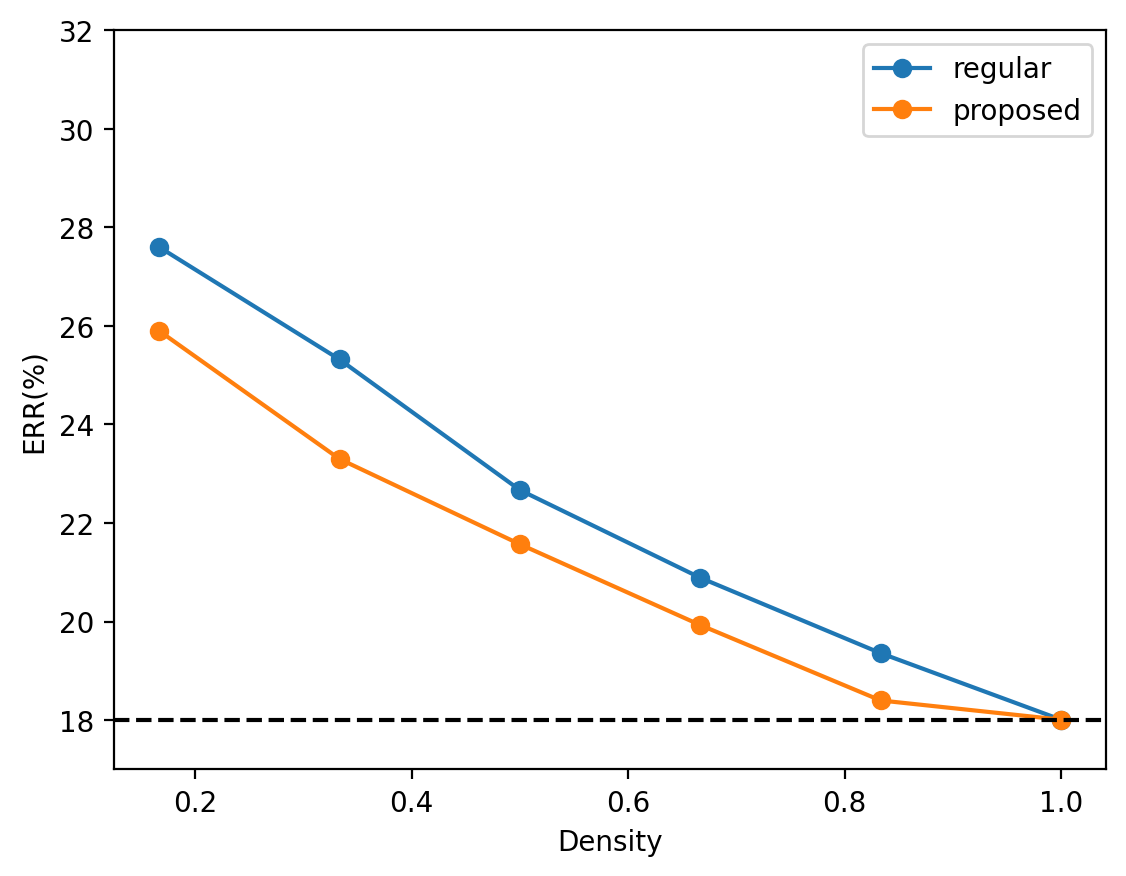
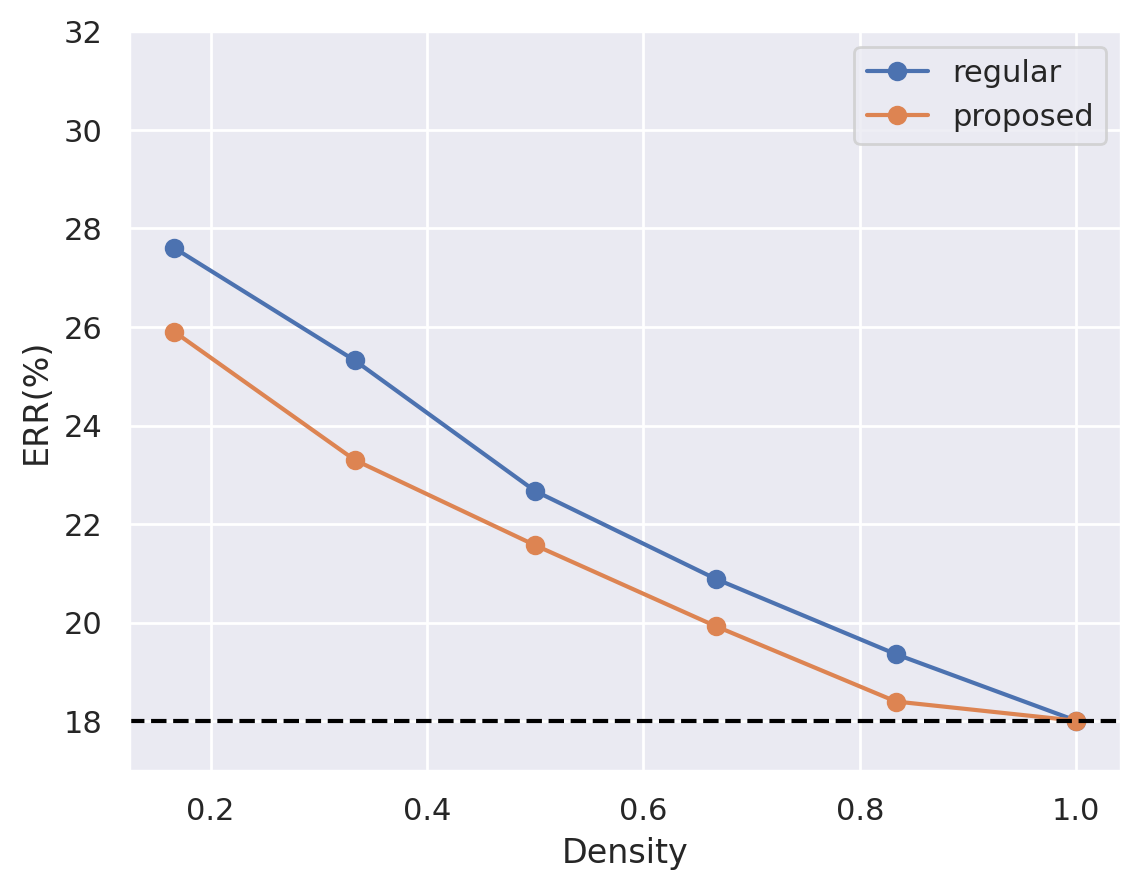
update figure

diff --git a/reproduce_figure/draw.py b/reproduce_figure/draw.py
@@ -91,10 +91,10 @@ def layer_compare():
     with open('data/layer_score.json', 'r') as fp:
         results = json.load(fp)
     color = {
-        'phone-type': RED,
-        'gender': BLUE,
-        'pitch': GREEN,
-        'duration': YELLOW
+        'phone-type': 'C0',
+        'gender': 'C1',
+        'pitch': 'C2',
+        'duration': 'C3'
     }
     labels = {
         'phone-type': 'phoneme',
@@ -102,6 +102,7 @@ def layer_compare():
         'pitch': 'pitch',
         'duration': 'duration' 
     }
+    plt.figure(figsize=(6,4))
     for k, v in results.items():
         if k == 'duration':
             continue
@@ -119,9 +120,9 @@ def model_compare():
         model_score = json.load(fp)
     color = {
         'melhubert_base': RED,
-        'hubert_base': BLUE,
-        'wav2vec2_base': GREEN,
-        'wavlm_base': YELLOW,
+        'hubert_base': 'C0',
+        'wav2vec2_base': 'C1',
+        'wavlm_base': 'C2',
         'pr': RED2,
         'sid': RED3,
     }
@@ -136,14 +137,14 @@ def model_compare():
     x = np.arange(3)  # the label locations
     width = 0.06  # the width of the bars
     multiplier = 0
-    fig, ax = plt.subplots(layout='constrained', figsize=(5,4))
+    fig, ax = plt.subplots(layout='constrained', figsize=(6,3))
     for m in models_list:
         offset = width * multiplier
         ax.bar(x*0.5 + offset, model_score[m], width, label=label[m], color=color[m])
         multiplier += 1
     xticks = ['phoneme', 'gender', 'pitch']
-    ax.set_ylabel('Silhouette score')
-    ax.set_xticks(x*0.5 + width*1.5, xticks)
+    ax.set_ylabel('Silhouette score', fontsize=15)
+    ax.set_xticks(x*0.5 + width*2.5, xticks, fontsize=13)
     ax.legend(loc='upper left')
     plt.savefig('fig/models-compare.png', dpi=200, bbox_inches='tight')
 
@@ -151,10 +152,10 @@ def layer_n_ps_compare():
     with open('data/layer_n_ps_keys.json', 'r') as fp:
         layer_n_ps_keys = json.load(fp)
     color = {
-        'phone-type': RED,
-        'gender': BLUE,
-        'pitch': GREEN,
-        'duration': YELLOW
+        'phone-type': 'C0',
+        'gender': 'C1',
+        'pitch': 'C2',
+        'duration': 'C3'
     }
     label = {
         'phone-type': 'phoneme',
@@ -162,6 +163,7 @@ def layer_n_ps_compare():
         'pitch': 'pitch',
         'duration': 'duration'
     }
+    plt.figure(figsize=(6,4))
     for k, v in layer_n_ps_keys.items():
         if k == 'duration':
             continue
@@ -176,6 +178,9 @@ def venn_ps_keys():
     with open('data/venn_set_sizes_layer_1.json', 'r') as fp:
         set_sizes = json.load(fp)
     venn = venn3(subsets=set_sizes, set_labels=p_name)
+    venn.get_patch_by_id('100').set_color('C0')  
+    venn.get_patch_by_id('010').set_color('C1')
+    venn.get_patch_by_id('001').set_color('C2') 
     plt.savefig('fig/venn-ps-keys-layer-1.png', bbox_inches='tight', dpi=200)
 
 # def row_pruning_cmp_n_ps_keys():
@@ -297,7 +302,7 @@ def row_pruning_regular_n_ps_keys():
     plt.savefig('fig/row-pruning-regular-n-ps-keys.png', bbox_inches='tight', dpi=200)
 
 def row_pruning_pr():
-    methods = ['regular-all', 'proposed-all']
+    methods = ['regular-all', 'protect-all']
     per = {
         'regular-128': [12.28, 8.40, 7.42, 7.23, 7.34, 8.17],
         'regular-all': [12.03, 8.17],
@@ -323,21 +328,21 @@ def row_pruning_pr():
         'protect-all': BLUE,
     }
     labels = {
-        'regular': 'regular',
+        'regular-all': 'regular',
         'protect-all': 'protect'
     }
 
     for m in methods:
         plt.plot(density[m], per[m], label=labels[m], color=colors[m], marker='o')
     plt.legend()
-    plt.axhline(per['regular'][-1], linestyle='--', color='black')
+    plt.axhline(per['regular-all'][-1], linestyle='--', color='black')
     plt.ylim(7, 22)
     plt.xlabel('Density')
     plt.ylabel('PER(%)')
     plt.savefig('fig/row-pruning-pr.png', bbox_inches='tight', dpi=200)
 
 def row_pruning_sid():
-    methods = ['regular-all', 'proposed-all']
+    methods = ['regular-all', 'protect-all']
     acc = {
         'regular-128': [51.04, 54.93, 59.77, 60.35, 62.63, 63.96],
         'regular-all': [50.84, 63.96],
@@ -362,13 +367,13 @@ def row_pruning_sid():
         'protect-all': BLUE,
     }
     labels = {
-        'regular': 'regular',
+        'regular-all': 'regular',
         'protect-all': 'protect'
     }
     for m in methods:
         plt.plot(density[m], [100-i for i in acc[m]], label=labels[m], color=colors[m], marker='o')
     plt.legend()
-    plt.axhline(100-acc['regular'][-1], linestyle='--', color='black')
+    plt.axhline(100-acc['regular-all'][-1], linestyle='--', color='black')
     plt.ylim(35, 50)
     plt.xlabel('Density')
     plt.ylabel('ERR(%)')
@@ -376,36 +381,50 @@ def row_pruning_sid():
 
 def row_pruning_bar():
     PR = {
-        'topline': 2.42,
-        'proposed': 10.77,
-        'baseline': 11.52
+        'unpruned': 8.17,
+        'protect ': 10.66,
+        'baseline': 12.03,
     }
     SID = {
-        'topline': 81.99,
-        'proposed': 73.74,
-        'baseline': 69.54
+        'unpruned': 63.96,
+        'protect': 58.89,
+        'baseline': 50.84,
     }
+
     # Convert SID accuracy to error rate
     SID_error = {k: 100 - v for k, v in SID.items()}
     methods = list(PR.keys())
     # Plotting
-    fig, ax1 = plt.subplots(figsize=(8, 6))
+    fig, ax1 = plt.subplots(figsize=(10, 6))
     # Bar width
     bar_width = 0.18
     # Index for the bar locations for PR and SID
     index_PR = np.arange(len(methods)) * 0.3  
-    index_SID = np.arange(len(methods)) * 0.3 + max(index_PR) + 0.5
+    index_SID = np.arange(len(methods)) * 0.3 + max(index_PR) + 0.4
     # Bar plots for PR
     bars_PR = ax1.bar(index_PR, PR.values(), bar_width, label='PR', color='C0')
     ax1.set_ylabel('PER (%)')
     ax1.set_xticks(np.concatenate([index_PR, index_SID]))
-    ax1.set_xticklabels(['PR ' + m for m in methods] + ['SID ' + m for m in methods])  # Explicit labels for clarity
+    ax1.set_xticklabels(methods + methods, fontsize=14)  # Explicit labels for clarity
+    ax1.legend(fontsize=15, loc='upper left', framealpha=0.8)
     # Create a second y-axis for SID error rates
     ax2 = ax1.twinx()
-    bars_SID = ax2.bar(index_SID, SID_error.values(), bar_width, label='SID Error Rate', color='C1')
+    bars_SID = ax2.bar(index_SID, SID_error.values(), bar_width, label='SID', color='C1')
     ax2.set_ylabel('SID ERR (%)')
-    # Legend
-    plt.savefig('fig/task-specific-bar.png', bbox_inches='tight', dpi=200)
+    ax2.grid(visible=False)
+    ax2.legend(fontsize=15, loc='upper left', bbox_to_anchor=(0,0.9), framealpha=0.8)
+    # Function to attach a text label above each bar displaying its height
+    def autolabel(rects, ax):
+        for rect in rects:
+            height = round(rect.get_height(), 1)
+            ax.annotate('{}'.format(height),
+                        xy=(rect.get_x() + rect.get_width() / 2, height),
+                        xytext=(0, 3),  # 3 points vertical offset
+                        textcoords="offset points",
+                        ha='center', va='bottom')
+    autolabel(bars_PR, ax1)
+    autolabel(bars_SID, ax2)
+    plt.savefig('fig/pruning-bar.png', bbox_inches='tight', dpi=200)
 
 def ssl_pruning():
     row_pruning_pr()
@@ -415,14 +434,11 @@ def ssl_pruning():
 def match_prob():
     v_data = np.load('data/match_prob.npy')
     n_dim = v_data.shape[-1]
-    n_phone = 3
     random_baseline = round(3072*0.01)/3072
-    phone_name = ['AH', 'F', 'UH']
-    fig, axs = plt.subplots(1, n_phone, figsize=(10,4))
-    for i in range(n_phone):
-        axs[i].bar(range(n_dim), v_data[i])
-        axs[i].title.set_text(phone_name[i])
-        axs[i].axhline(y=random_baseline, color='r', linestyle='-', linewidth=1)
+    plt.figure(figsize=(6,4))
+    plt.bar(range(n_dim), v_data[0], color='C0', linewidth=0)
+    plt.axhline(y=random_baseline, color=RED, linestyle='-', linewidth=2)
+    plt.text(n_dim*0.7, random_baseline+0.02, 'random baseline', color=RED, fontweight='bold')
     plt.savefig('fig/match_prob.png', bbox_inches='tight', dpi=200)
 
 def generate_colors(N):
@@ -543,20 +559,68 @@ def task_specific_bar():
     bars_PR = ax1.bar(index_PR, PR.values(), bar_width, label='PR', color='C0')
     ax1.set_ylabel('PER (%)')
     ax1.set_xticks(np.concatenate([index_PR, index_SID]))
-    ax1.set_xticklabels([f'PR {methods[0]}']+[m for m in methods[1:]] + [f'SID {methods[0]}'] + [m for m in methods[1:]], fontsize=14)  # Explicit labels for clarity
+    ax1.set_xticklabels(methods + methods, fontsize=14)  # Explicit labels for clarity
     ax1.grid(zorder=0)
+    ax1.legend(fontsize=15, loc='upper left', framealpha=0.8)
     # Create a second y-axis for SID error rates
     ax2 = ax1.twinx()
-    bars_SID = ax2.bar(index_SID, SID_error.values(), bar_width, label='SID Error Rate', color='C1')
+    bars_SID = ax2.bar(index_SID, SID_error.values(), bar_width, label='SID', color='C1')
     ax2.set_ylabel('SID ERR (%)')
     ax2.grid(visible=False)
-    # Legend
+    ax2.legend(fontsize=15, loc='upper left', bbox_to_anchor=(0,0.9), framealpha=0.8)
+    # Function to attach a text label above each bar displaying its height
+    def autolabel(rects, ax):
+        for rect in rects:
+            height = round(rect.get_height(), 1)
+            ax.annotate('{}'.format(height),
+                        xy=(rect.get_x() + rect.get_width() / 2, height),
+                        xytext=(0, 3),  # 3 points vertical offset
+                        textcoords="offset points",
+                        ha='center', va='bottom')
+    autolabel(bars_PR, ax1)
+    autolabel(bars_SID, ax2)
     plt.savefig('fig/task-specific-bar.png', bbox_inches='tight', dpi=200)
 
 def task_specific_pruning():
     task_specific_pr()
     task_specific_sid()
     task_specific_bar()
+
+def erase_gender_info():
+    # Data setup
+    groups = ['Erase Male', 'Erase Female']
+    male_delta_errors = [18.58, 2.24]
+    female_delta_errors = [4.1, 22.43]
+
+    # Set up for bars
+    y = [i*0.45 for i in range(len(groups))]  # label locations
+    height = 0.18  # height of the bars
+
+    fig, ax = plt.subplots(figsize=(8, 4))
+    rects1 = ax.barh([p - height for p in y], male_delta_errors, height, label='Male', color='C0')
+    rects2 = ax.barh(y, female_delta_errors, height, label='Female', color='C1')
+
+    # Add some text for labels, title and custom y-axis tick labels, etc.
+    ax.set_xlabel('Δ SID Error Rate (%)', fontsize=15)
+    ax.set_yticks([p  - height/2 for p in y])
+    ax.set_yticklabels(groups, fontsize=15)
+    ax.legend(fontsize=15)
+
+    # Function to attach a text label next to each bar displaying its width
+    def autolabel(rects):
+        for rect in rects:
+            width = rect.get_width()
+            ax.annotate('{}'.format(width),
+                        xy=(width, rect.get_y() + rect.get_height() / 2),
+                        xytext=(3, 0),  # 3 points horizontal offset
+                        textcoords="offset points",
+                        ha='left', va='center')
+
+    # Attach labels to the bars
+    autolabel(rects1)
+    autolabel(rects2)
+    plt.savefig('fig/erase-gender.png', bbox_inches='tight', dpi=200)
+   
 
 if __name__ == '__main__':
     parser = argparse.ArgumentParser()
@@ -565,7 +629,7 @@ if __name__ == '__main__':
                 'model_compare', 'layer_n_ps_compare',
                 'venn_ps_keys', 'row_pruning_regular_n_ps_keys',
                 'row_pruning_pr', 'row_pruning_sid', 'match_prob',
-                'task_specific_pruning']
+                'task_specific_pruning', 'ssl_pruning', 'erase_gender_info']
             ,help='Mode of drawing figure')
     args = parser.parse_args()
     eval(args.mode)()
